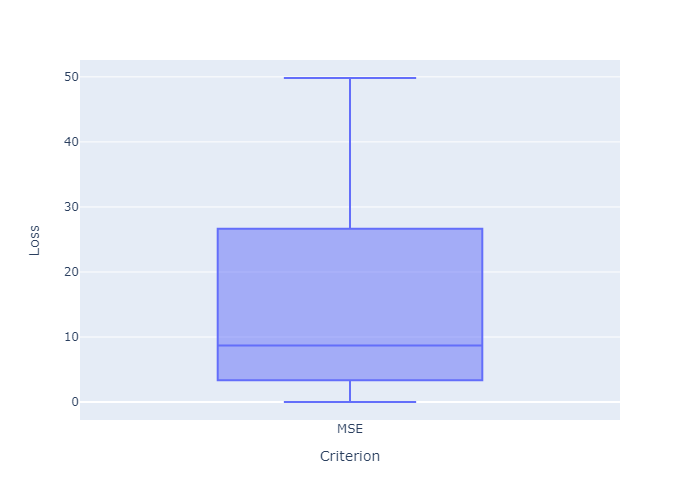
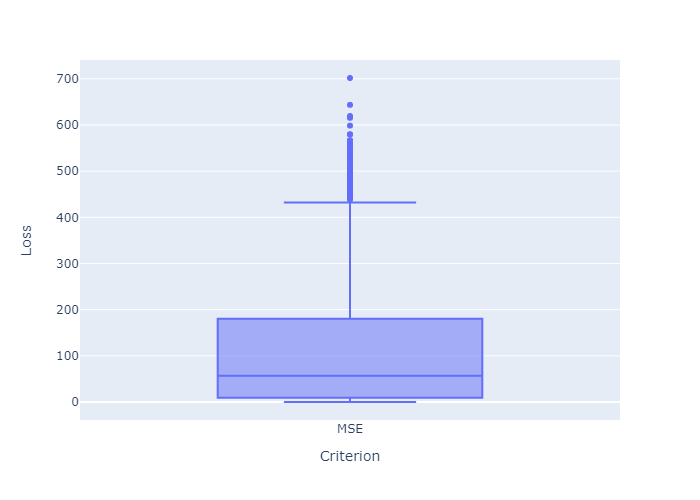
plots plots plots

diff --git a/Scripts/DataVisualization.py b/Scripts/DataVisualization.py
@@ -328,7 +328,6 @@ class DataViz():
             df = self.dfARIMA
         elif model == ModelType.SARIMA:
             df = self.dfSARIMA
-        df = df[df["Loss"] < 50]
         for criterion in LossFunction.Criterions():
             dfTemp = df[df["Criterion"] == criterion.__name__]
             fig = px.box(dfTemp, x="Criterion", y="Loss")
@@ -351,7 +350,7 @@ class DataViz():
         df = dfSTCONV.append(dfLSTM, ignore_index=True)
         df = df.append(dfDCRNN, ignore_index=True)
         df = df[df["DistanceType"] == distanceType.name]
-        df = df[df["Loss"] < 20]
+        df = df[df["Loss"] < 100]
         for criterion in LossFunction.Criterions():
             dfTemp = df[df["Criterion"] == criterion.__name__]
             fig = px.box(dfTemp, x="Size", y="Loss", color="Type")
@@ -425,14 +424,20 @@ class DataViz():
 
                 fig.write_image(path_save)
 
-    def HeatMapLoss(self, name_save: str) -> None:
+    def HeatMapLoss(self, model : ModelType) -> None:
+        name_save = f"HeatMap{model.name}.png"
         path_save = os.path.join(self.path_save_plots, name_save)
         if os.path.isfile(path_save):
             return
-        dfInfo = self.dfLR
+        if model == ModelType.LinearRegression:
+            dfInfo = self.dfLR
+        elif model == ModelType.ARIMA:
+            dfInfo = self.dfARIMA
+        elif model == ModelType.SARIMA:
+            dfInfo = self.dfSARIMA
         dfMeta = self.dfMeta
         dfInfo = dfInfo[dfInfo["Criterion"] == "MAE"]
-        dfInfo = dfInfo[dfInfo["Loss"] < 20]
+        # dfInfo = dfInfo[dfInfo["Loss"] < 20]
         df = pd.merge(dfMeta, dfInfo, left_on='ID', right_on='Node_Id')
         fig = px.scatter_mapbox(
             df,
@@ -442,7 +447,7 @@ class DataViz():
             color_continuous_scale=px.colors.sequential.Bluered,
             zoom=8,
             mapbox_style="open-street-map",
-            title='Map for Loss MAE')
+            title=f'Map for Loss {model.name}')
 
         fig.write_image(path_save)
 
@@ -501,16 +506,18 @@ class DataViz():
 
     def Experiment_Run(self, datareader: DataReader):
 
-        self.TableFinalResults("tableresults.png")
-        self.BoxPlotResults(DistanceType.Geodesic)
-        self.BoxPlotResults(DistanceType.OSRM)
-        self.BoxPlotResultsNonGNN(ModelType.LinearRegression)
+        # self.TableFinalResults("tableresults.png")
+        # self.BoxPlotResults(DistanceType.Geodesic)
+        # self.BoxPlotResults(DistanceType.OSRM)
+        # self.BoxPlotResultsNonGNN(ModelType.LinearRegression)
         self.BoxPlotResultsNonGNN(ModelType.ARIMA)
         self.BoxPlotResultsNonGNN(ModelType.SARIMA)
-        self.RegressionLRTruePredicted(datareader)
-        self.HeatMapLoss("HeatMapLRLossMAE.png")
-        self.SigmaEpsilonTable("SigmaEpsilonTable.png")
-        self.GNNRegresionTrainLoss()
+        # self.RegressionLRTruePredicted(datareader)
+        # self.HeatMapLoss(ModelType.LinearRegression)
+        # self.HeatMapLoss(ModelType.ARIMA)
+        # self.HeatMapLoss(ModelType.SARIMA)
+        # self.SigmaEpsilonTable("SigmaEpsilonTable.png")
+        # self.GNNRegresionTrainLoss()
 
     def ReadInfo():
         datareader = DataReader()
